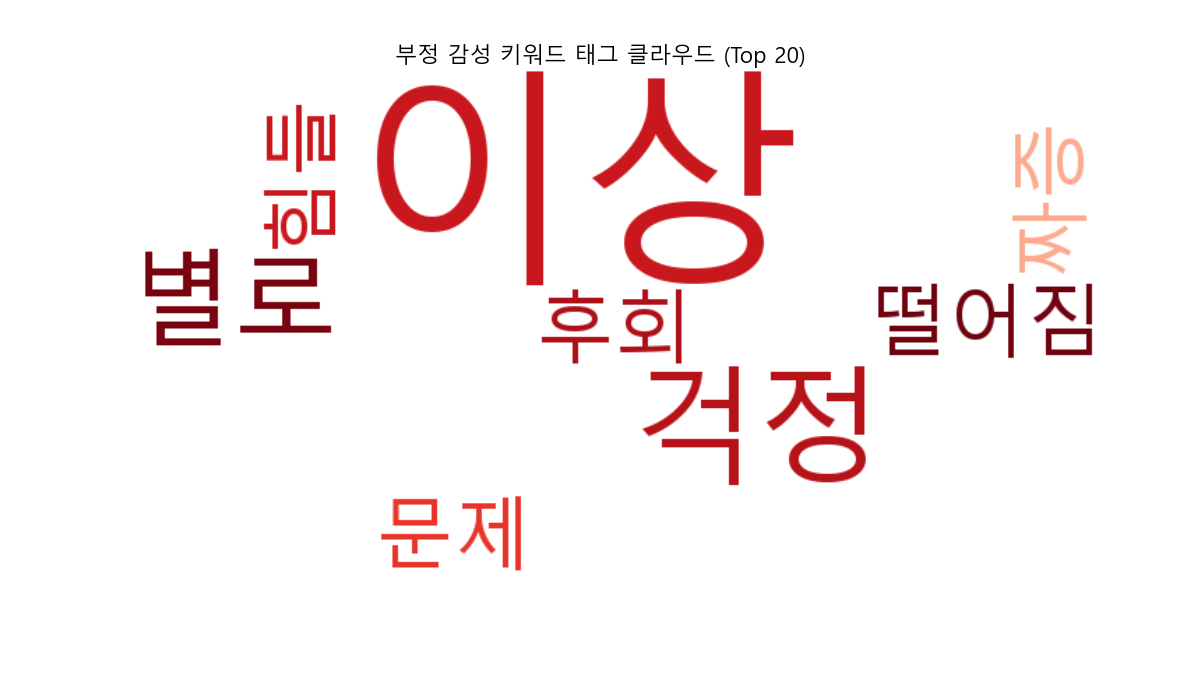
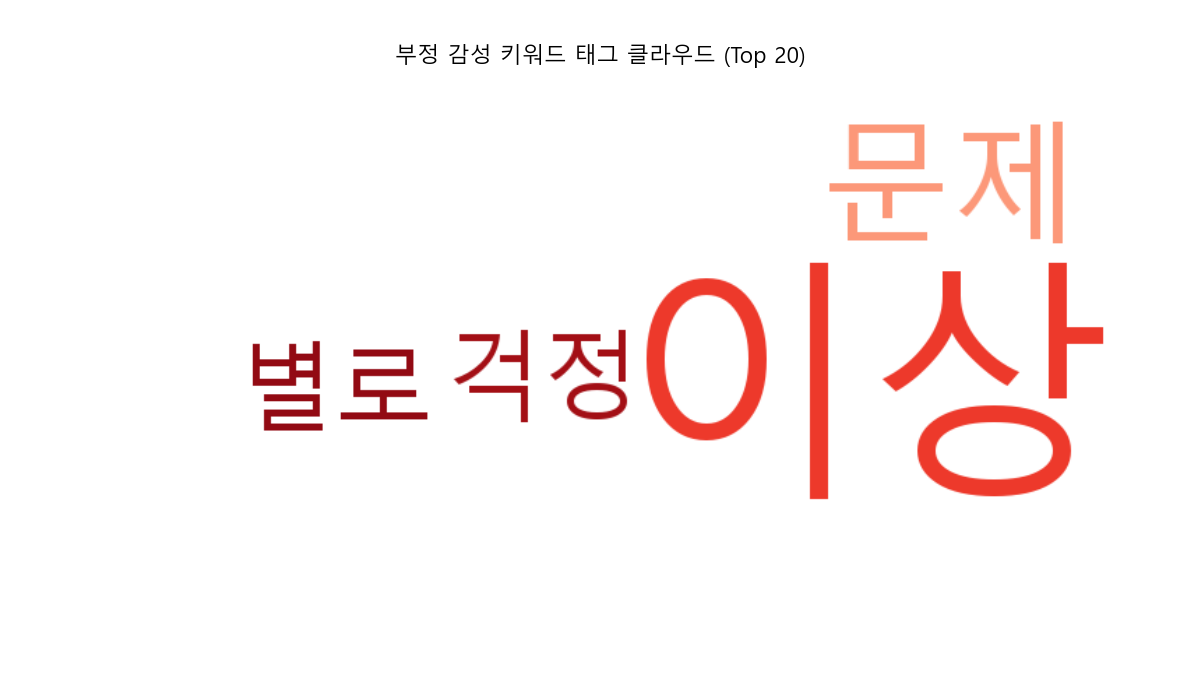
front : 경쟁사분석 기능 활성화

diff --git a/templates/index.html b/templates/index.html
@@ -253,7 +253,7 @@
           </div>
           <div class="visualization-area">
             {% if data %}
-            <img src="/static/img/sentiment_positive_wc.png" alt="통합 워드클라우드" style="width: 100%; height: auto;">
+            <img src="/static/img/sentiment_combined_wc.png" alt="통합 워드클라우드" style="width: 100%; height: auto;">
             {% else %}
             <div class="graph-placeholder small">시각화 자료</div>
             {% endif %}
@@ -312,7 +312,7 @@
             <h2>경쟁사 비교</h2>
             <span class="dropdown-arrow"></span> </div>
           
-          <form id="searchForm" action="/search" method="GET" class="search-form">
+          <form id="competitorForm" action="/compare_competitor" method="GET" class="search-form">
           <input
             type="text"
             name="search"
@@ -328,11 +328,13 @@
           </button>
         </form>
         </div>
-        {% if data and data.visualization_urls.competitor_comparison %}
-        <img src="{{ data.visualization_urls.competitor_comparison }}" alt="경쟁사 비교 그래프" style="width: 100%; height: auto;">
-        {% else %}
-        <div class="graph-placeholder large">경쟁사 데이터가 없거나 분석되지 않았습니다.</div>
-        {% endif %}
+        <div style="display: flex; justify-content: center;">
+          {% if data and data.competitor_data and data.competitor_data.visualization_urls.competitor_comparison %}
+          <img src="{{ data.competitor_data.visualization_urls.competitor_comparison }}" alt="경쟁사 비교 그래프" style="width: 50%; height: auto;">
+          {% else %}
+          <div class="graph-placeholder large">경쟁사 데이터가 없거나 분석되지 않았습니다.</div>
+          {% endif %}
+        </div>
       </div>
     </div>
 

diff --git a/static/style.css b/static/style.css
@@ -244,6 +244,7 @@ body {
   align-items: center;
   gap: 15px;
   width: 100%;
+  justify-content: center;
 }
 
 /* 그래프 제목 (AI, 교차분석) */

diff --git a/analysis_core.py b/analysis_core.py
@@ -586,17 +586,17 @@ def visualize_competitor_mention_comparison(own_query, own_df, competitor_query,
         print("경고: 비교할 월 데이터가 부족합니다. (최소 2개월 필요)")
         return None
 
-    plt.figure(figsize=(14, 7))
+    plt.figure(figsize=(10, 5))
     sns.lineplot(x=combined_counts.index, y=own_query, data=combined_counts, marker='o', color='tab:blue', label=own_query)
     sns.lineplot(x=combined_counts.index, y=competitor_query, data=combined_counts, marker='s', color='tab:red', label=competitor_query)
 
-    plt.title(f'{own_query} vs {competitor_query} 월별 언급량 추이 비교 (최근 12개월)', fontsize=16) 
-    plt.xlabel('월', fontsize=12) 
-    plt.ylabel('총 언급량', fontsize=12)
+    plt.title(f'{own_query} vs {competitor_query} 월별 언급량 추이 비교 (최근 12개월)', fontsize=14) 
+    plt.xlabel('월', fontsize=11) 
+    plt.ylabel('총 언급량', fontsize=11)
     plt.xticks(combined_counts.index, rotation=45) 
-    plt.legend(fontsize=12)
+    plt.legend(fontsize=11)
     plt.grid(axis='y', linestyle='--')
-    plt.tight_layout()
+    plt.subplots_adjust(left=0.12, right=0.92, top=0.92, bottom=0.15)
     
     print("-> 자사/경쟁사 언급량 비교 시각화 플롯 객체 생성 완료.")
     return plt
@@ -748,12 +748,17 @@ def run_full_analysis(search_query: str, competitor_query: str, client_id: str, 
     }
 
     # 1. 유효성 검증
-    if not is_valid_query(search_query) or not is_brand_name(search_query, client_id, client_secret):
-        analysis_results["message"] = "자사 검색어 유효성/브랜드명 검증에 실패하여 분석을 종료합니다."
+    if not is_valid_query(search_query):
+        analysis_results["message"] = "자사 검색어 유효성 검증에 실패하여 분석을 종료합니다."
         return analysis_results
     
+    # 브랜드명 검증 (경쟁사 분석일 때는 스킵)
+    if not competitor_query:
+        if not is_brand_name(search_query, client_id, client_secret):
+            analysis_results["message"] = "브랜드명 검증에 실패하여 분석을 종료합니다."
+            return analysis_results
+    
     is_comp_valid = competitor_query and is_valid_query(competitor_query)
-    if not is_comp_valid: competitor_query = None
 
     print("\n==================================================")
     print("✅ 데이터 수집 및 분석을 시작합니다.")
@@ -789,10 +794,9 @@ def run_full_analysis(search_query: str, competitor_query: str, client_id: str, 
     # 6. 시각화 및 URL 저장
     gc.collect() 
     
-    # ⚠ [수정] 누락된 시각화 함수 호출 및 URL 저장 로직 추가
     urls = {}
     
-    # 6-1. 감성 워드클라우드 (top7_keywords_df 변수 확보)
+    # 6-1. 감성 워드클라우드
     pos_plot, neg_plot, all_plot, top7_keywords_df = visualize_sentiment_word_clouds(
         total_df, POSITIVE_WORDS, NEGATIVE_WORDS
     )
@@ -825,7 +829,7 @@ def run_full_analysis(search_query: str, competitor_query: str, client_id: str, 
         "mention_vs_search_trend.png", static_folder
     )
     
-    # 6-5. 경쟁사 비교
+    # 6-5. 경쟁사 비교 (경쟁사 데이터가 있을 때만)
     if is_comp_valid and not competitor_df.empty:
         urls["competitor_comparison"] = save_and_get_url(
             lambda: visualize_competitor_mention_comparison(search_query, total_df, competitor_query, competitor_df),
@@ -834,8 +838,8 @@ def run_full_analysis(search_query: str, competitor_query: str, client_id: str, 
     else:
         urls["competitor_comparison"] = None
     
-    # 7. 최종 결과 딕셔너리 구성 (템플릿 연동을 위해 키 구조 평탄화)
-    analysis_results = {} # 분석 결과를 새로운 딕셔너리로 평탄화하여 구성
+    # 7. 최종 결과 딕셔너리 구성
+    analysis_results = {}
 
     # 기본 정보
     analysis_results["query"] = search_query
@@ -843,30 +847,25 @@ def run_full_analysis(search_query: str, competitor_query: str, client_id: str, 
     analysis_results["status"] = "SUCCESS"
     analysis_results["message"] = f"'{search_query}' 분석이 완료되었습니다."
 
-    # 핵심 지표 (Key Metrics)
+    # 핵심 지표
     analysis_results["total_mentions"] = len(total_df)
     analysis_results["most_frequent_date"] = most_frequent_date_result
     analysis_results["mention_change_rate"] = mention_change_rate_result
     analysis_results["competitor_mentions"] = len(competitor_df) if competitor_query else 0
 
-    # 감성 분석 (Sentiment Analysis)
-    # 템플릿의 'label'과 'slider'에 바로 사용하기 쉽게 변환
+    # 감성 분석
     analysis_results["final_sentiment_label"] = final_sentiment 
     analysis_results["positive_percentage"] = int(float(f"{positive_score:.2f}")) 
     analysis_results["top_keywords"] = top7_keywords_df.to_dict('records') if not top7_keywords_df.empty else []
 
     # 트렌드 분석
-    analysis_results["outbreak_weeks"] = initial_outbreak_months # 이슈 확산 포인트
+    analysis_results["outbreak_weeks"] = initial_outbreak_months
     analysis_results["trend_data_available"] = not trend_df.empty
 
     # 시각화 URL
-    
-    
     analysis_results["visualization_urls"] = urls
 
-
-    # 🚀 [추가된 부분] 게시물 리스트 (제목, 날짜, 작성자, 링크) 추출
-    # total_df에서 필요한 4개 열만 추출하여 템플릿에 전달합니다.
+    # 게시물 리스트
     analysis_results["post_list"] = total_df[[
         'title', 
         'postdate', 
@@ -877,10 +876,8 @@ def run_full_analysis(search_query: str, competitor_query: str, client_id: str, 
         'channel_name': 'author'
     }).to_dict('records')
 
-    # 🚀 [추가된 부분] AI 리포트 공간 (일단 빈 문자열로 할당)
-    # 추후 LLM 등을 활용하여 내용을 채울 수 있도록 키만 남깁니다.
+    # AI 리포트
     analysis_results["ai_report"] = "AI 리포트 내용을 준비 중입니다. 잠시 후 확인해 주세요." 
-
 
     print("\n==================================================")
     print("✅ 최종 분석 결과 JSON 생성 완료. Flask 응답 준비.")

diff --git a/app.py b/app.py
@@ -16,6 +16,10 @@ STATIC_FOLDER = os.path.join(os.getcwd(), 'static')
 if not os.path.exists(STATIC_FOLDER):
     os.makedirs(STATIC_FOLDER)
 
+# 🔄 전역 변수: 현재 분석 결과 저장
+current_data = None
+competitor_data = None
+
 
 # ----------------------------------------------------
 # 🏠 메인 페이지 라우팅
@@ -31,6 +35,8 @@ def index():
 # ----------------------------------------------------
 @app.route('/search', methods=['GET'])
 def search_analysis():
+    global current_data, competitor_data
+    
     # HTML 폼에서 'name="search"'로 전달되는 값을 받습니다.
     search_query = request.args.get('search', '').strip() 
     competitor_query = "" # 현재 폼에는 없으므로 빈 문자열로 처리
@@ -63,7 +69,88 @@ def search_analysis():
 
     # 3. HTML 템플릿 렌더링
     # ⚠ [수정] 결과를 index.html 템플릿에 전달합니다.
-    return render_template('index.html', data=results)
+    # 현재 브랜드 데이터 저장
+    current_data = results
+    # 경쟁사 데이터 초기화 (새로운 검색)
+    competitor_data = None
+    
+    # 병합된 데이터 생성 (현재 분석 데이터 + 경쟁사 데이터)
+    merged_data = {
+        **results,
+        'competitor_data': competitor_data
+    }
+    
+    return render_template('index.html', data=merged_data)
+
+
+# ✨ 새로운 라우트: 경쟁사 비교 분석
+# ============================================================
+@app.route('/compare_competitor', methods=['GET'])
+def compare_competitor():
+    global current_data, competitor_data
+    
+    # 경쟁사 검색어 받기
+    competitor_query = request.args.get('search', '').strip()
+    
+    if not competitor_query or current_data is None:
+        # 경쟁사 검색어가 없거나 기존 분석 결과가 없으면 현재 상태 유지
+        merged_data = {
+            **current_data,
+            'competitor_data': competitor_data
+        } if current_data else None
+        return render_template('index.html', data=merged_data)
+    
+    # 경쟁사 데이터 수집 및 경쟁사 비교 그래프 생성
+    try:
+        # 경쟁사 데이터 수집
+        from analysis_core import fetch_naver_search_results, visualize_competitor_mention_comparison, save_and_get_url
+        import pandas as pd
+        
+        comp_blog_df = fetch_naver_search_results(competitor_query, 'blog', NAVER_CLIENT_ID, NAVER_CLIENT_SECRET, MAX_RESULTS)
+        comp_news_df = fetch_naver_search_results(competitor_query, 'news', NAVER_CLIENT_ID, NAVER_CLIENT_SECRET, MAX_RESULTS)
+        competitor_results_df = pd.concat([comp_blog_df, comp_news_df], ignore_index=True)
+        
+        if competitor_results_df.empty:
+            # 경쟁사 데이터가 없으면 기존 상태 유지
+            merged_data = {
+                **current_data,
+                'competitor_data': competitor_data
+            } if current_data else None
+            return render_template('index.html', data=merged_data)
+        
+        # 경쟁사 비교 그래프 생성
+        competitor_comparison_url = save_and_get_url(
+            lambda: visualize_competitor_mention_comparison(
+                current_data['query'], 
+                # current_data에서 post_list를 dataframe으로 재구성
+                pd.DataFrame(current_data['post_list']).rename(columns={'date': 'postdate', 'author': 'channel_name'}),
+                competitor_query,
+                competitor_results_df
+            ),
+            "competitor_comparison.png",
+            STATIC_FOLDER
+        )
+        
+        # competitor_data 저장 (비교 그래프 URL만 저장)
+        competitor_data = {
+            'query': competitor_query,
+            'visualization_urls': {
+                'competitor_comparison': competitor_comparison_url
+            }
+        }
+        
+    except Exception as e:
+        print(f"ERROR during competitor analysis: {e}")
+        # 오류 발생해도 기존 데이터 유지
+        pass
+    
+    # 병합된 데이터 생성
+    merged_data = {
+        **current_data,
+        'competitor_data': competitor_data
+    } if current_data else None
+    
+    return render_template('index.html', data=merged_data)
 
 
 # ----------------------------------------------------
